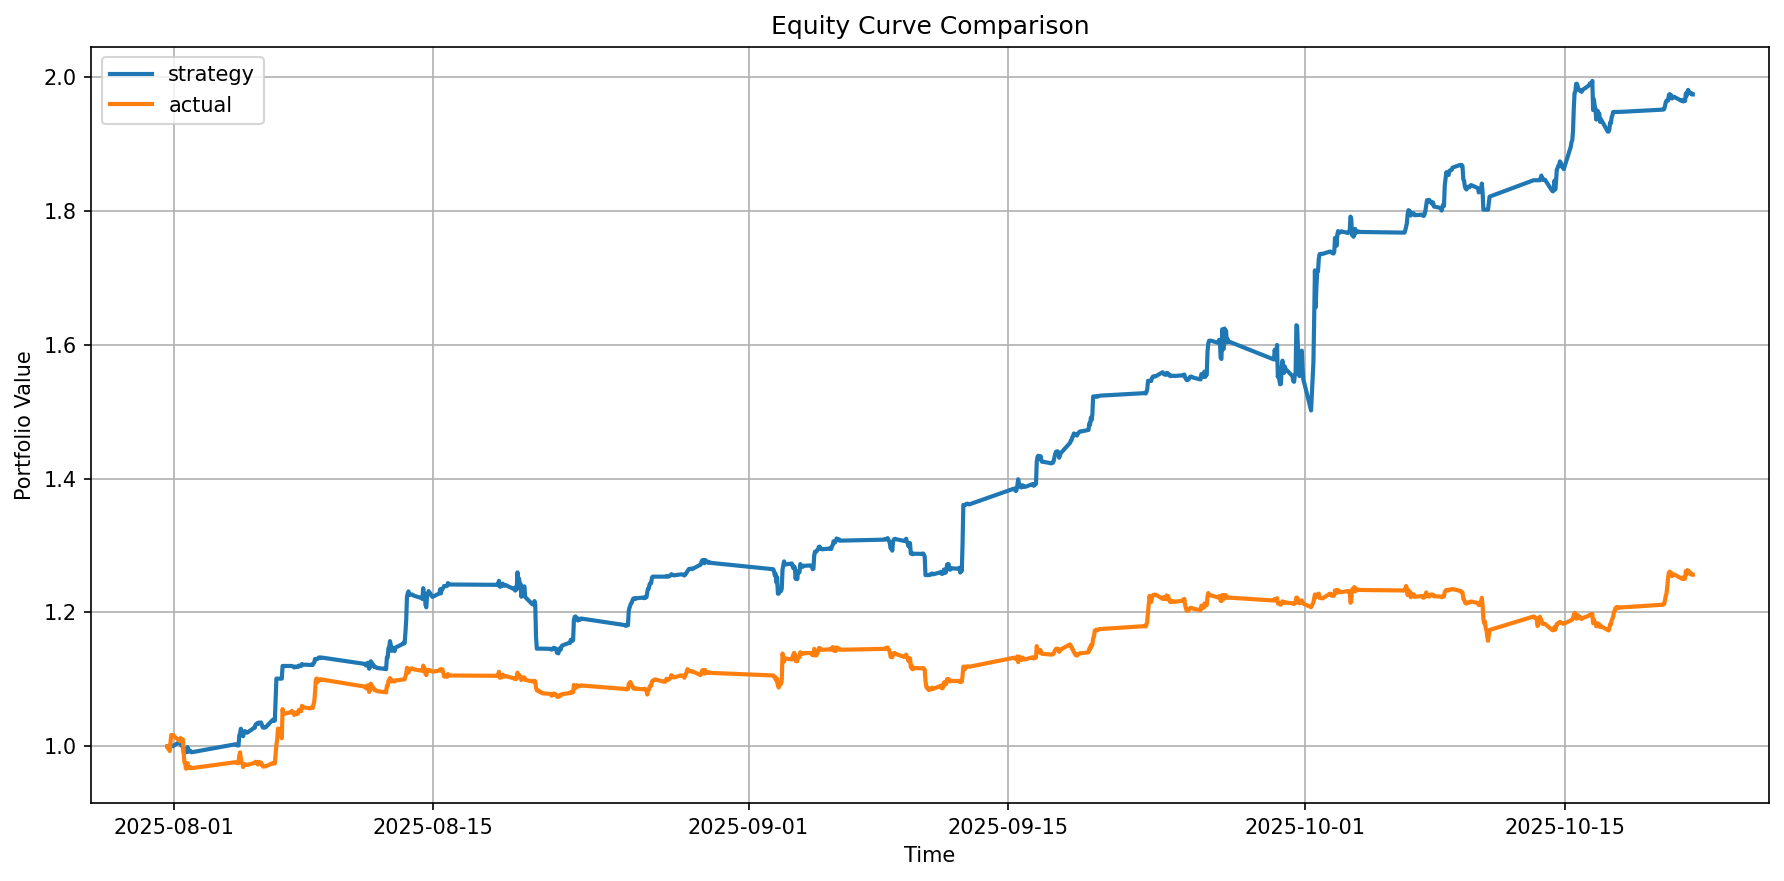
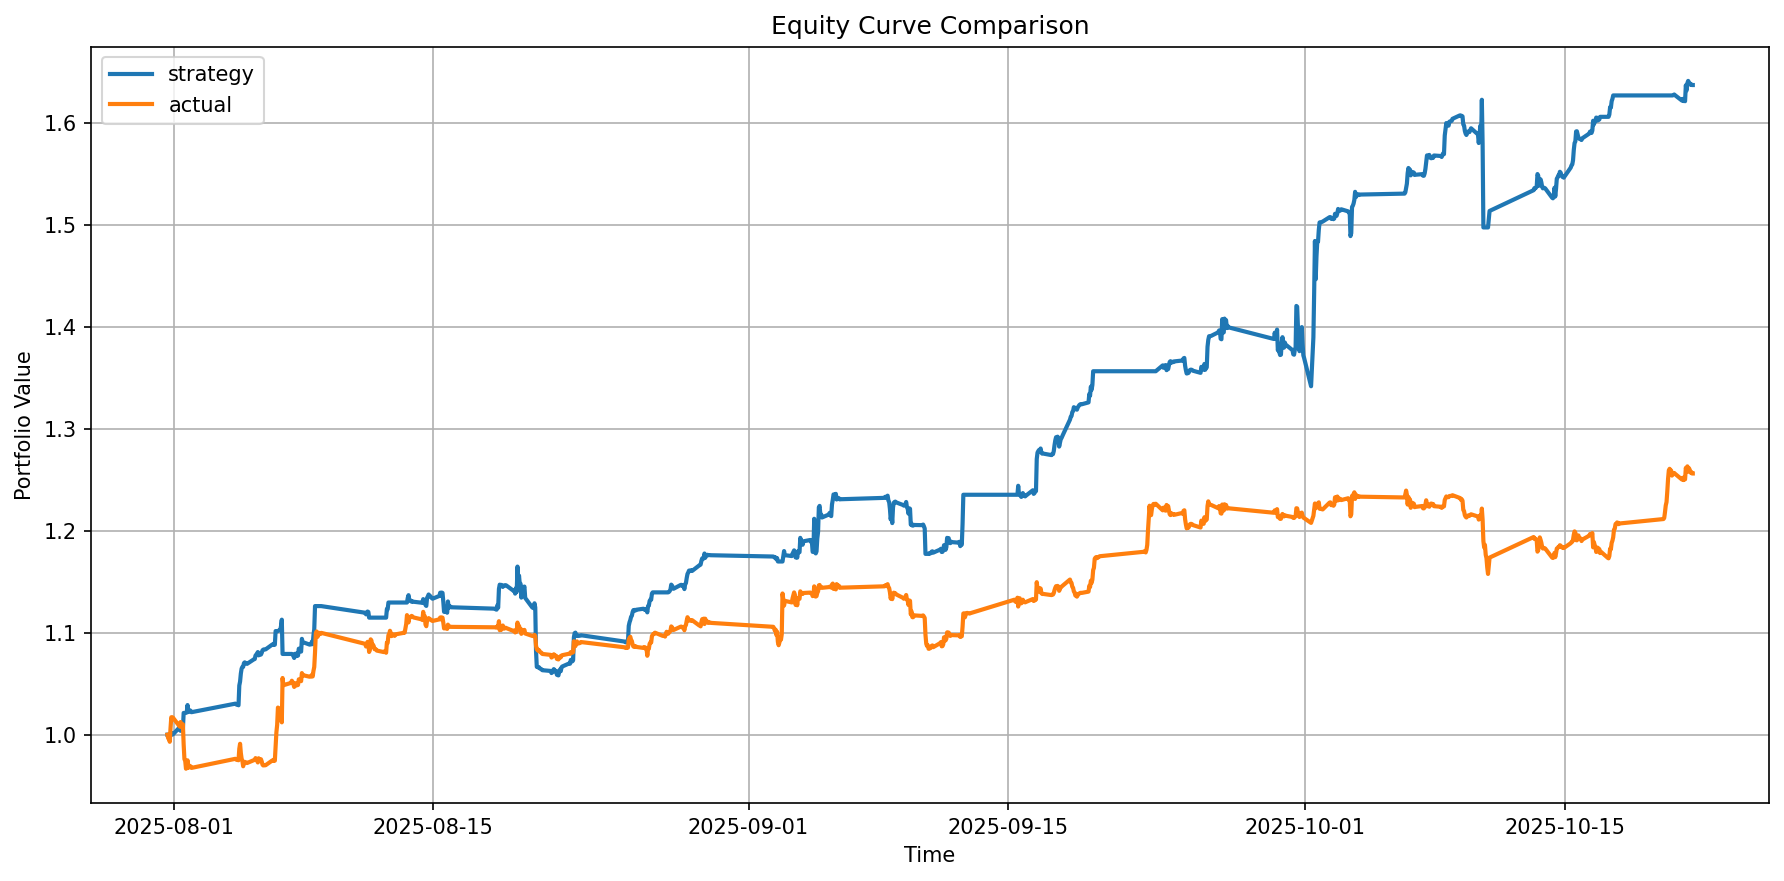
add early stops and training target

diff --git a/utils.py b/utils.py
@@ -16,6 +16,7 @@ from sklearn.metrics import (
     accuracy_score,
     confusion_matrix,
     ConfusionMatrixDisplay,
+    roc_auc_score,
 )
 from tsfresh import extract_features
 from tsfresh.feature_extraction import (
@@ -898,6 +899,12 @@ def RF_meta_label_model(
     feat_cols: list,
     shap_sample_size: int = 100,
     alpha: float = 0.5,
+    reducing_n_estimators: int = 1000,
+    base_n_estimators: int = 200,
+    meta_n_estimators: int = 100,
+    early_stop: Optional[dict] = None,
+    target_precision: Optional[float] = None,
+    min_precision_coverage: float = 0.05,
 ):
     debug_block(
         "RF_meta_label_model:start",
@@ -911,7 +918,7 @@ def RF_meta_label_model(
     if len(train_bin) == 0:
         raise ValueError("No labeled samples (-1/1) in base_reg_df for training.")
 
-    reducing_feat_model = RandomForestClassifier(n_estimators=1000, random_state=42)
+    reducing_feat_model = RandomForestClassifier(n_estimators=reducing_n_estimators, random_state=42)
     reducing_feat_model.fit(train_bin[feat_cols], train_bin["Event"])
 
     sample_n = min(shap_sample_size, len(train_bin))
@@ -924,16 +931,87 @@ def RF_meta_label_model(
     shap_ranking = pd.Series(mean_abs_shap, index=train_bin[feat_cols].columns).sort_values(ascending=False)
     top_k_features = shap_ranking.head(top_k_shap).index.tolist()
 
-    base_model = RandomForestClassifier(n_estimators=200, random_state=4)
-    base_model.fit(train_bin[top_k_features], train_bin["Event"])
+    base_model = RandomForestClassifier(
+        n_estimators=0 if early_stop else base_n_estimators,
+        random_state=4,
+        warm_start=bool(early_stop),
+    )
+
+    def _fit_with_early_stop(X, y):
+        cfg = early_stop or {}
+        val_frac = float(cfg.get("val_frac", 0.2))
+        patience = int(cfg.get("patience", 3))
+        min_delta = float(cfg.get("min_delta", 1e-4))
+        step = int(cfg.get("step", 50))
+        max_estimators = int(cfg.get("max_estimators", base_n_estimators))
+
+        if len(X) < 200 or val_frac <= 0 or val_frac >= 0.5:
+            base_model.set_params(n_estimators=max_estimators)
+            base_model.fit(X, y)
+            return
+
+        split_idx = int(len(X) * (1 - val_frac))
+        X_tr, X_val = X.iloc[:split_idx], X.iloc[split_idx:]
+        y_tr, y_val = y.iloc[:split_idx], y.iloc[split_idx:]
+
+        if len(X_val) < 50 or len(np.unique(y_val)) < 2:
+            base_model.set_params(n_estimators=max_estimators)
+            base_model.fit(X, y)
+            return
+
+        best_auc = -np.inf
+        bad = 0
+        n_estimators = 0
+
+        while n_estimators < max_estimators:
+            n_estimators = min(n_estimators + step, max_estimators)
+            base_model.set_params(n_estimators=n_estimators)
+            base_model.fit(X_tr, y_tr)
+            proba = base_model.predict_proba(X_val)[:, 1]
+            auc = roc_auc_score((y_val == 1).astype(int), proba)
+            if auc > best_auc + min_delta:
+                best_auc = auc
+                bad = 0
+            else:
+                bad += 1
+                if bad >= patience:
+                    break
+
+    if early_stop:
+        _fit_with_early_stop(train_bin[top_k_features], train_bin["Event"])
+    else:
+        base_model.fit(train_bin[top_k_features], train_bin["Event"])
 
     base_preds_meta = base_model.predict(meta_reg_df[top_k_features])
     base_probs_meta = base_model.predict_proba(meta_reg_df[top_k_features]).max(axis=1)
 
     probs_base = base_model.predict_proba(base_reg_df[top_k_features])
     max_probs_base = probs_base.max(axis=1)
-    conformal_score = 1 - max_probs_base
-    threshold = np.quantile(conformal_score, 1 - alpha)
+
+    def _threshold_for_precision(probs, y_true, precision_target, min_keep_frac):
+        order = np.argsort(probs)[::-1]
+        y = y_true[order]
+        p = probs[order]
+        correct = (y == 1).astype(int)
+        cum_correct = np.cumsum(correct)
+        cum_total = np.arange(1, len(p) + 1)
+        precision = cum_correct / cum_total
+        min_keep = max(1, int(len(p) * min_keep_frac))
+        idx = np.where((precision >= precision_target) & (cum_total >= min_keep))[0]
+        if len(idx) == 0:
+            return None
+        return p[idx[-1]]
+
+    threshold = None
+    if target_precision is not None:
+        y_base = (base_reg_df["Event"].values == base_model.predict(base_reg_df[top_k_features])).astype(int)
+        threshold = _threshold_for_precision(
+            max_probs_base, y_base, float(target_precision), float(min_precision_coverage)
+        )
+
+    if threshold is None:
+        conformal_score = 1 - max_probs_base
+        threshold = np.quantile(conformal_score, 1 - alpha)
 
     adjusted_preds = np.where(base_probs_meta >= 1 - threshold, base_preds_meta, 0)
 
@@ -941,7 +1019,7 @@ def RF_meta_label_model(
     meta_remain["signals"] = adjusted_preds
     meta_remain["meta_feature"] = np.where(meta_remain["signals"] == meta_remain["Event"], 1, 0)
 
-    meta_model = RandomForestClassifier(n_estimators=100, random_state=42)
+    meta_model = RandomForestClassifier(n_estimators=meta_n_estimators, random_state=42)
     meta_model.fit(meta_remain[top_k_features], meta_remain["meta_feature"])
 
     debug_block(
@@ -966,6 +1044,12 @@ def run_hmm_rf_pipeline_from_split(
     alpha: float = 0.5,
     skew_col: str = "ret_skew_20",
     skew_threshold: float = 0.5,
+    reducing_n_estimators: int = 1000,
+    base_n_estimators: int = 200,
+    meta_n_estimators: int = 100,
+    early_stop: Optional[dict] = None,
+    target_precision: Optional[float] = None,
+    min_precision_coverage: float = 0.05,
 ):
     debug_block(
         "run_hmm_rf_pipeline_from_split:start",
@@ -1065,6 +1149,12 @@ def run_hmm_rf_pipeline_from_split(
         feat_cols=feat_cols,
         shap_sample_size=shap_sample_size,
         alpha=alpha,
+        reducing_n_estimators=reducing_n_estimators,
+        base_n_estimators=base_n_estimators,
+        meta_n_estimators=meta_n_estimators,
+        early_stop=early_stop,
+        target_precision=target_precision,
+        min_precision_coverage=min_precision_coverage,
     )
 
     use_cols = [c for c in top_k_features if c in test_df.columns]
@@ -1129,6 +1219,12 @@ def run_rf_pipeline_from_split(
     top_k_shap: int = 20,
     shap_sample_size: int = 200,
     alpha: float = 0.5,
+    reducing_n_estimators: int = 1000,
+    base_n_estimators: int = 200,
+    meta_n_estimators: int = 100,
+    early_stop: Optional[dict] = None,
+    target_precision: Optional[float] = None,
+    min_precision_coverage: float = 0.05,
 ):
     debug_block(
         "run_rf_pipeline_from_split:start",
@@ -1155,6 +1251,12 @@ def run_rf_pipeline_from_split(
         feat_cols=feat_cols,
         shap_sample_size=shap_sample_size,
         alpha=alpha,
+        reducing_n_estimators=reducing_n_estimators,
+        base_n_estimators=base_n_estimators,
+        meta_n_estimators=meta_n_estimators,
+        early_stop=early_stop,
+        target_precision=target_precision,
+        min_precision_coverage=min_precision_coverage,
     )
 
     test_df["meta_label_probs"] = meta_m.predict_proba(test_df[top_feats])[:, 1]

diff --git a/main.py b/main.py
@@ -45,6 +45,7 @@ CONFIG = {
         "shap_sample_size": 200,
         "alpha": 0.5,
         "n_components": 3,
+        "hmm_iter": 600,
     },
     "hmm_avg": {
         "embargo_period": 30,
@@ -52,6 +53,24 @@ CONFIG = {
         "shap_sample_size": 200,
         "alpha": 0.5,
         "n_components": 2,
+        "hmm_iter": 600,
+    },
+    "training_iters": {
+        "reducing_n_estimators": 2000,
+        "base_n_estimators": 400,
+        "meta_n_estimators": 200,
+    },
+    "early_stop": {
+        "enabled": True,
+        "val_frac": 0.2,
+        "patience": 3,
+        "min_delta": 1e-4,
+        "step": 50,
+    },
+    "precision_gate": {
+        "enabled": True,
+        "target_precision": 0.6,
+        "min_coverage": 0.05,
     },
     "run_examples": {
         "rf_trailing": True,
@@ -163,6 +182,16 @@ def run_rf_trailing_example(together: pd.DataFrame, higher_frequency_data: pd.Da
         shap_sample_size=config["rf"]["shap_sample_size"],
         alpha=config["rf"]["alpha"],
         top_k_shap=config["rf"]["top_k_shap"],
+        reducing_n_estimators=config["training_iters"]["reducing_n_estimators"],
+        base_n_estimators=config["training_iters"]["base_n_estimators"],
+        meta_n_estimators=config["training_iters"]["meta_n_estimators"],
+        early_stop=config["early_stop"] if config["early_stop"]["enabled"] else None,
+        target_precision=(
+            config["precision_gate"]["target_precision"]
+            if config["precision_gate"]["enabled"]
+            else None
+        ),
+        min_precision_coverage=config["precision_gate"]["min_coverage"],
     )
 
     explainer = shap.TreeExplainer(reducing_feature_model)
@@ -208,6 +237,16 @@ def run_rf_avg_example(together: pd.DataFrame, config: dict):
         shap_sample_size=config["rf_avg"]["shap_sample_size"],
         alpha=config["rf_avg"]["alpha"],
         top_k_shap=config["rf_avg"]["top_k_shap"],
+        reducing_n_estimators=config["training_iters"]["reducing_n_estimators"],
+        base_n_estimators=config["training_iters"]["base_n_estimators"],
+        meta_n_estimators=config["training_iters"]["meta_n_estimators"],
+        early_stop=config["early_stop"] if config["early_stop"]["enabled"] else None,
+        target_precision=(
+            config["precision_gate"]["target_precision"]
+            if config["precision_gate"]["enabled"]
+            else None
+        ),
+        min_precision_coverage=config["precision_gate"]["min_coverage"],
     )
 
     test_equity_curve, trade_log = strategy_backtesting_average_change_rate(
@@ -247,6 +286,17 @@ def run_hmm_trailing_example(together: pd.DataFrame, higher_frequency_data: pd.D
         shap_sample_size=config["hmm"]["shap_sample_size"],
         alpha=config["hmm"]["alpha"],
         n_components=config["hmm"]["n_components"],
+        hmm_iter=config["hmm"]["hmm_iter"],
+        reducing_n_estimators=config["training_iters"]["reducing_n_estimators"],
+        base_n_estimators=config["training_iters"]["base_n_estimators"],
+        meta_n_estimators=config["training_iters"]["meta_n_estimators"],
+        early_stop=config["early_stop"] if config["early_stop"]["enabled"] else None,
+        target_precision=(
+            config["precision_gate"]["target_precision"]
+            if config["precision_gate"]["enabled"]
+            else None
+        ),
+        min_precision_coverage=config["precision_gate"]["min_coverage"],
     )
 
     testset = art["testset"]
@@ -290,6 +340,17 @@ def run_hmm_avg_example(together: pd.DataFrame, config: dict):
         shap_sample_size=config["hmm_avg"]["shap_sample_size"],
         alpha=config["hmm_avg"]["alpha"],
         n_components=config["hmm_avg"]["n_components"],
+        hmm_iter=config["hmm_avg"]["hmm_iter"],
+        reducing_n_estimators=config["training_iters"]["reducing_n_estimators"],
+        base_n_estimators=config["training_iters"]["base_n_estimators"],
+        meta_n_estimators=config["training_iters"]["meta_n_estimators"],
+        early_stop=config["early_stop"] if config["early_stop"]["enabled"] else None,
+        target_precision=(
+            config["precision_gate"]["target_precision"]
+            if config["precision_gate"]["enabled"]
+            else None
+        ),
+        min_precision_coverage=config["precision_gate"]["min_coverage"],
     )
 
     testset = art["testset"]
